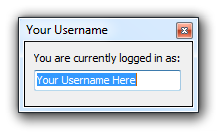
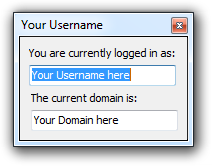
Adding _LookupAccountName_ Function to Application

diff --git a/Readme.md b/Readme.md
@@ -1,6 +1,6 @@
 # DisplayUserName
 
-This sample Application displays the username, the programm is run as. It is intended at beeing a sample application for hooking WinAPI calls.
+This sample Application displays the username and the domain name, the programm is run as. It is intended at beeing a sample application for hooking WinAPI calls.
 
 ## Screenshot
 
